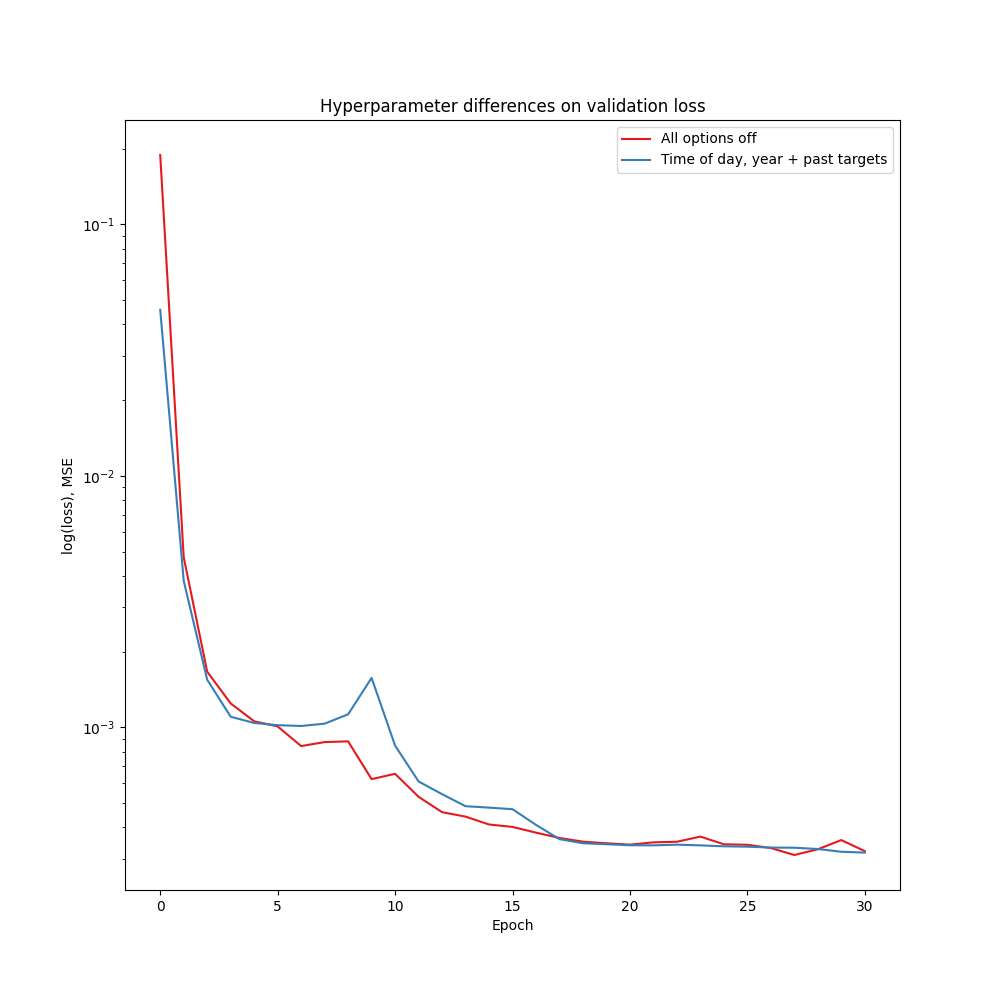
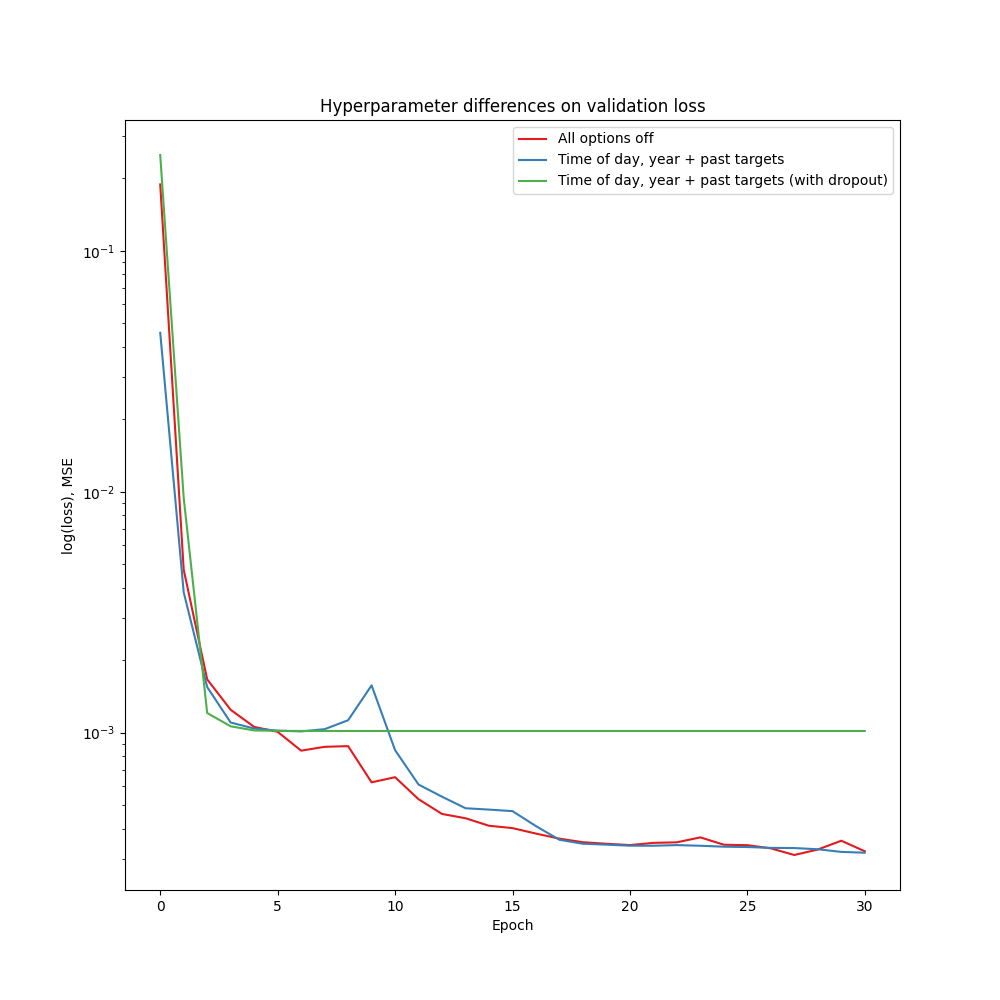
Add results from training 14

diff --git a/Project 3 - Imbalance forecasting/exploration/plot_model_prediction_differences.py b/Project 3 - Imbalance forecasting/exploration/plot_model_prediction_differences.py
@@ -64,5 +64,6 @@ if __name__ == "__main__":
         ("All options off", "models/configs/13_task_2_all_off.yml", "models/13_task_2_all_off.pt"),
         ("Time of day, year + past targets (epoch 13)", "models/configs/9_task_2_from_6.yml", "models/9_task_2_from_6.pt"),
         ("Time of day, year + past targets (epoch 21)", "models/configs/9_task_2_from_6.yml", "models/9_task_2_from_6_epoch_21.pt"),
+        ("Time of day, year + past targets (with dropout)", "models/configs/14_task_2_from_6_with_dropout.yml", "models/14_task_2_from_6_with_dropout.pt"),
     ]
     plot_prediction_losses(task_2_list, ROOT_PATH / "plots/model_future_differences_task_2.png")

diff --git a/Project 3 - Imbalance forecasting/exploration/plot_model_differences.py b/Project 3 - Imbalance forecasting/exploration/plot_model_differences.py
@@ -43,6 +43,7 @@ if __name__ == "__main__":
     task_2_loss_list = [
         ("All options off", "models/losses/13_task_2_all_off.losses"),
         ("Time of day, year + past targets", "models/losses/9_task_2_from_6.losses"),
+        ("Time of day, year + past targets (with dropout)", "models/losses/14_task_2_from_6_with_dropout.losses"),
     ]
     plot_losses(task_2_loss_list, ROOT_PATH / "plots/model_differences_task_2.png")
 
